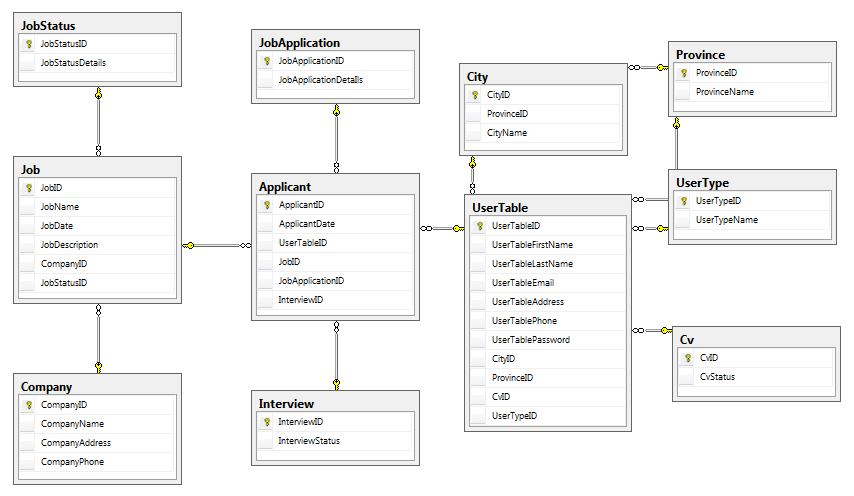
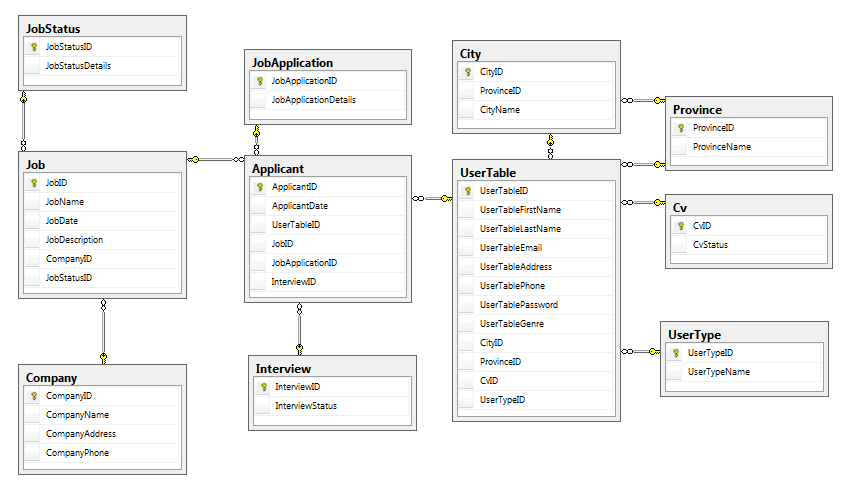
se sigio trabajando con la vista Registro

Changed region(s): [[0.0, 0.0, 1.0, 0.9529], [0.0, 0.6148, 0.2134, 0.9836]]

diff --git a/RRHH/Content/js/registro.js b/RRHH/Content/js/registro.js
@@ -44,6 +44,16 @@ $(document).ready(function () {
                     }
                 }
             },
+            password: {
+                validators: {
+                    stringLength: {
+                        min: 4,
+                    },
+                    notEmpty: {
+                        message: 'Por favor ingrese una contraseña de minimo 4 caracteres'
+                    }
+                }
+            },
             phone: {
                 validators: {
                     notEmpty: {

diff --git a/RRHH/Models/UserTableManager.cs b/RRHH/Models/UserTableManager.cs
@@ -1,0 +1,32 @@
+using System;
+using System.Collections.Generic;
+using System.Data.SqlClient;
+using System.Linq;
+using System.Web;
+
+namespace RRHH.Models
+{
+    public class UserTableManager
+    {
+        public void Insertar(UserTable newUser)
+        {
+            string sqlquery = "INSERT INTO UserTable (UserTableFirstName,UserTableLastName,UserTableEmail,UserTableAddress,UserTablePhone,UserTablePassword,UserTableGenre,ProvinceID,CityID,CvID,UserTypeID) VALUES (@UserTableFirstName,@UserTableLastName,@UserTableEmail,@UserTableAddress,@UserTablePhone,@UserTablePassword,@UserTableGenre,@ProvinceID,@CityID,1,2)";
+            DataBase ConexionBD = new DataBase();
+            SqlCommand sentencia = ConexionBD.Conectar(sqlquery);
+            sentencia.Parameters.AddWithValue("@UserTableFirstName", newUser.UserTableFirstName);
+            sentencia.Parameters.AddWithValue("@UserTableLastName", newUser.UserTableLastName);
+            sentencia.Parameters.AddWithValue("@UserTableEmail", newUser.UserTableEmail);
+            sentencia.Parameters.AddWithValue("@UserTableAddress", newUser.UserTableAddress);
+            sentencia.Parameters.AddWithValue("@UserTablePhone", newUser.UserTablePhone);
+            sentencia.Parameters.AddWithValue("@UserTablePassword", newUser.UserTablePassword);
+            sentencia.Parameters.AddWithValue("@UserTableGenre", newUser.UserTableGenre);
+            sentencia.Parameters.AddWithValue("@ProvinceID", newUser.Province.ProvinceID);
+            sentencia.Parameters.AddWithValue("@CityID", newUser.City.CityID);
+            //5-Ejecutar!
+            sentencia.ExecuteNonQuery();
+
+            //CERRAR LA CONEXION AL TERMINAR!!!!
+            ConexionBD.Desconectar();
+        }
+    }
+}

diff --git a/RRHH/Controllers/LoginController.cs b/RRHH/Controllers/LoginController.cs
@@ -27,5 +27,26 @@ namespace RRHH.Controllers
             ciudades = new CityManager().GetCiudadesPorProvincia(id);
             return Json(new SelectList(ciudades, "CityID", "CityName"));
         }
+        [HttpPost]
+        public ActionResult GuardarNuevoUsuario(string first_name, string last_name, string password, string email, string phone, string address, int province_id, int city_id, string genre)
+        {
+            UserTable newUser = new UserTable();
+            newUser.UserTableFirstName = first_name;
+            newUser.UserTableLastName = last_name;
+            newUser.UserTablePassword = password;
+            newUser.UserTableEmail = email;
+            newUser.UserTablePhone = phone;
+            newUser.UserTableAddress = address;
+            newUser.UserTableGenre = genre;
+            ProvinceManager pManager = new ProvinceManager();
+            newUser.Province = pManager.Consultar(province_id);
+            CityManager cManager = new CityManager();
+            newUser.City = cManager.Consultar(city_id);
+
+            UserTableManager uManager = new UserTableManager();
+            uManager.Insertar(newUser);
+
+            return RedirectToAction("Index", "Home");
+        }
     }
 }

diff --git a/RRHH/Controllers/JobsController.cs b/RRHH/Controllers/JobsController.cs
@@ -73,19 +73,6 @@ namespace RRHH.Controllers
             return RedirectToAction("Busquedas", "Jobs"); ;
         }
 
-        public ActionResult EditarBusquedas(int id_job, string job_name, string job_description)
-        {
-            string s = System.Configuration.ConfigurationManager.ConnectionStrings["cadenaconexion1"].ConnectionString;
-            SqlConnection conexion = new SqlConnection(s);
-            conexion.Open();
-            SqlCommand comando = new SqlCommand("update Job set " +
-                "JobName='" + job_name + "',JobDescription='" + job_description + "' where JobID='" + id_job + "'", conexion);
-            comando.ExecuteNonQuery();
-            conexion.Close();
-
-            return RedirectToAction("Busquedas", "Jobs");
-        }
-
         public ActionResult PruebaEmail()
         {
             ViewBag.mensaje = MailCambioEstado("Pepe Argento","pa.mikolay@gmail.com","laralaaaaa","probando probando");

diff --git a/RRHH/Models/ApplicantManager.cs b/RRHH/Models/ApplicantManager.cs
@@ -1,0 +1,25 @@
+using System;
+using System.Collections.Generic;
+using System.Data.SqlClient;
+using System.Linq;
+using System.Web;
+
+namespace RRHH.Models
+{
+    public class ApplicantManager
+    {
+        public void Insertar(Applicant newApplicant)
+        {
+            string sqlquery = "INSERT INTO Applicant (ApplicantDate,UserTableID,JobID,JobApplicationID,InterviewID) VALUES (getdate(),@UserTableID,@JobID,1,1)";
+            DataBase ConexionBD = new DataBase();
+            SqlCommand sentencia = ConexionBD.Conectar(sqlquery);
+            sentencia.Parameters.AddWithValue("@UserTableID", newApplicant.User);
+            sentencia.Parameters.AddWithValue("@JobID", newApplicant.Job);
+            //5-Ejecutar!
+            sentencia.ExecuteNonQuery();
+
+            //CERRAR LA CONEXION AL TERMINAR!!!!
+            ConexionBD.Desconectar();
+        }
+    }
+}

diff --git a/RRHH/Models/Applicant.cs b/RRHH/Models/Applicant.cs
@@ -10,9 +10,9 @@ namespace RRHH.Models
         public int ApplicantID { get; set; }
         public DateTime ApplicantDate { get; set; }
         //Relaciones
-        public UserTable UserTableID { get; set; }
-        public Job JobID { get; set; }
-        public JobApplication JobApplicationID { get; set; }
-        public Interview InterviewID { get; set; }
+        public UserTable User { get; set; }
+        public Job Job { get; set; }
+        public JobApplication JobApplicationStatus { get; set; }
+        public Interview InterviewStatus { get; set; }
     }
 }

diff --git a/RRHH/Models/UserTable.cs b/RRHH/Models/UserTable.cs
@@ -16,9 +16,9 @@ namespace RRHH.Models
         public string UserTablePassword { get; set; }
         public string UserTableGenre { get; set; }
         //Relaciones
-        public City CityID { get; set; }
-        public Province ProvinceID { get; set; }
-        public Cv CvID { get; set; }
-        public UserType UserTypeID { get; set; }
+        public City City { get; set; }
+        public Province Province { get; set; }
+        public Cv CvStatus { get; set; }
+        public UserType UserType { get; set; }
     }
 }
